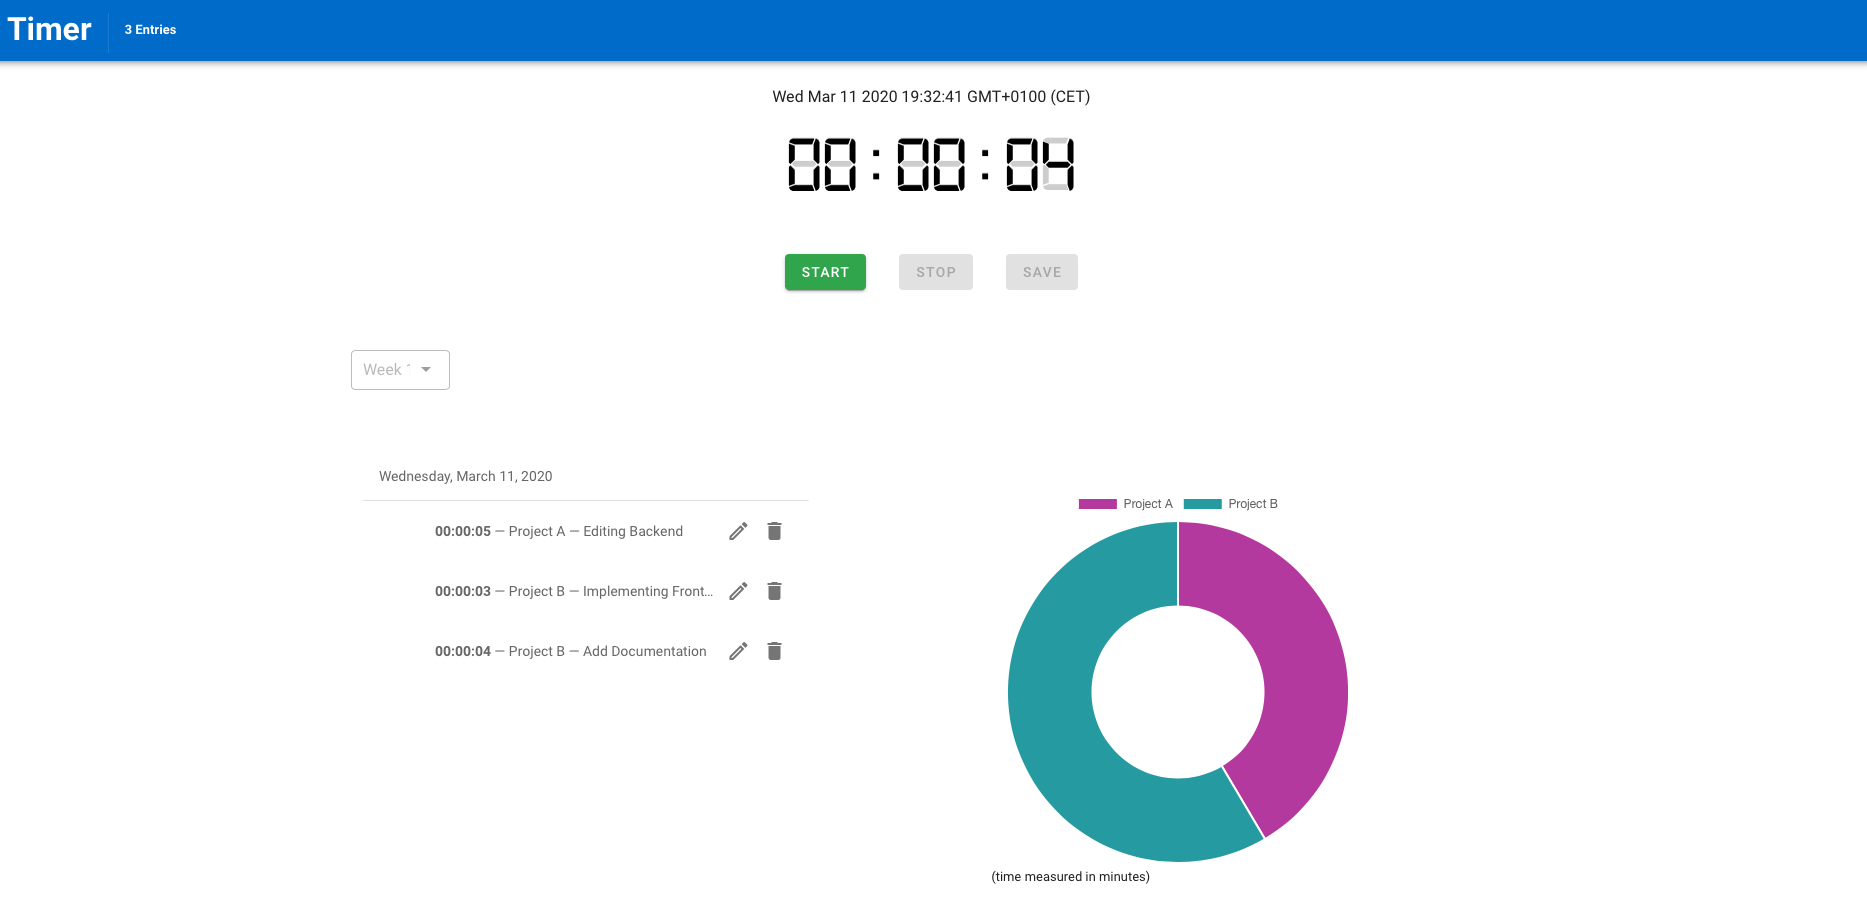
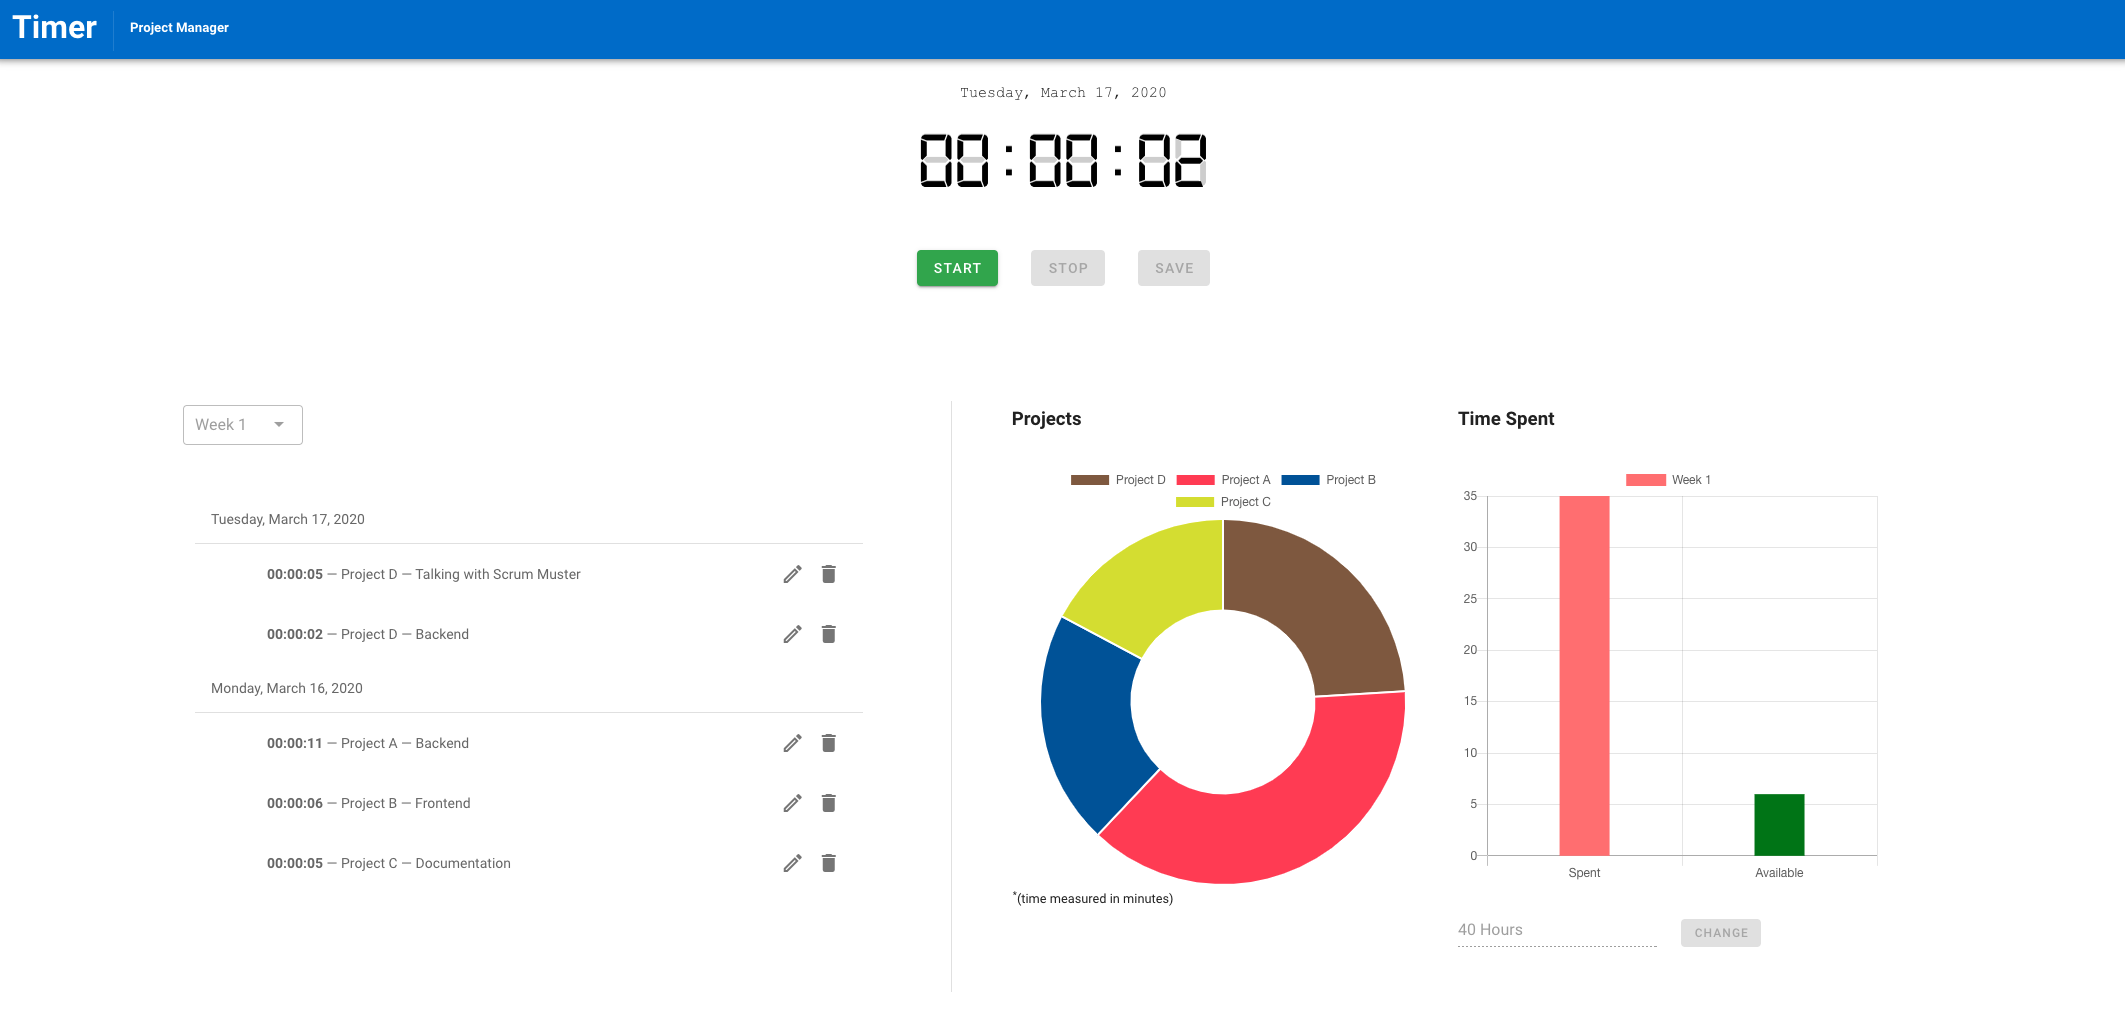
replace images and change form for the entry

diff --git a/src/components/EntryDialog.vue b/src/components/EntryDialog.vue
@@ -2,36 +2,29 @@
     <v-dialog v-model="dialog" persistent max-width="300px">
     <v-card>
         <v-card-title>
-        <span class="headline">{{ title }}</span>
+            <span class="headline">{{ title }}</span>
         </v-card-title>
         <v-card-text>
         <v-container>
             <v-row>
                 <v-col cols="12">
-                    <div>{{ time }}</div>
+                    <div class="text-center">{{ time }}</div>
                 </v-col>
-                <v-divider></v-divider>
                 <v-col cols="12">
-                    <!-- TODO: https://vuetifyjs.com/en/components/combobox/ -->
                     <v-combobox
                         v-model="topicTyped"
-                        :items="projects || []"
-                        full-width
-                        hide-details
-                        @keyup.enter=saveAsEntry
-                        hide-no-data
-                        hide-selected
-                        deletable-chips
-                        single-line
+                        :items="sortedProjects"
                         label="Topic*"
+                        @keyup.enter=saveAsEntry
                         :rules="rules.ruleOne"
-                    ></v-combobox>
-                    <!-- <v-text-field label="Topic*" v-model="topicTyped" type="text" :rules="rules.ruleOne"></v-text-field> -->
+                        >
+                    </v-combobox>
                     <v-text-field label="Description*" @keyup.enter="saveAsEntry" v-model="descriptionTyped" type="text" :rules="rules.ruleOne"></v-text-field>
                 </v-col>
+            <v-divider class="mt-4" inset vertical></v-divider>
             </v-row>
+            <small><sup>*</sup>required field</small>
         </v-container>
-        <small>*indicates required field</small>
         </v-card-text>
         <v-card-actions>
         <v-spacer></v-spacer>
@@ -46,6 +39,7 @@
 export default {
     props: { 
         projects: {
+            type: Array
         },
         dialog: {
             type: Boolean,
@@ -110,6 +104,15 @@ export default {
 
             this.closeDialog();
         },
+    },
+    computed: {
+        sortedProjects: function () {
+            if (!this.projects) 
+                return []
+
+            let arr = this.projects
+            return arr.sort();
+        }
     }
 }
 </script>

diff --git a/src/App.vue b/src/App.vue
@@ -51,7 +51,7 @@
                         <v-col col="1">
                           <v-text-field disabled :placeholder="timeHours + ' Hours'" class="" type="number"></v-text-field>
                         </v-col>
-                        <v-col class="mt-5" col="1">
+                        <v-col col="1">
                           <v-btn disabled small>Change</v-btn>
                         </v-col>
                       </v-row>

diff --git a/src/components/BarChart.vue b/src/components/BarChart.vue
@@ -4,7 +4,7 @@ import { Bar } from 'vue-chartjs'
 export default {
     data: () => ({
         chartdata: {
-            labels: ['Used','Free'],
+            labels: ['Spent','Available'],
             datasets: [
                 {
                 label: 'Week 1',

diff --git a/README.md b/README.md
@@ -2,6 +2,8 @@
 
 ## Description
 This tool uses a built-in digital timer to calculate the time spent on a project in a specified time period. 
+It uses the Browser's _LocalStorage_ to save every Entry, __nothing goes to a Backend!__
+Your data remains your data! :metal
 
 ## Images
 ### Timer
